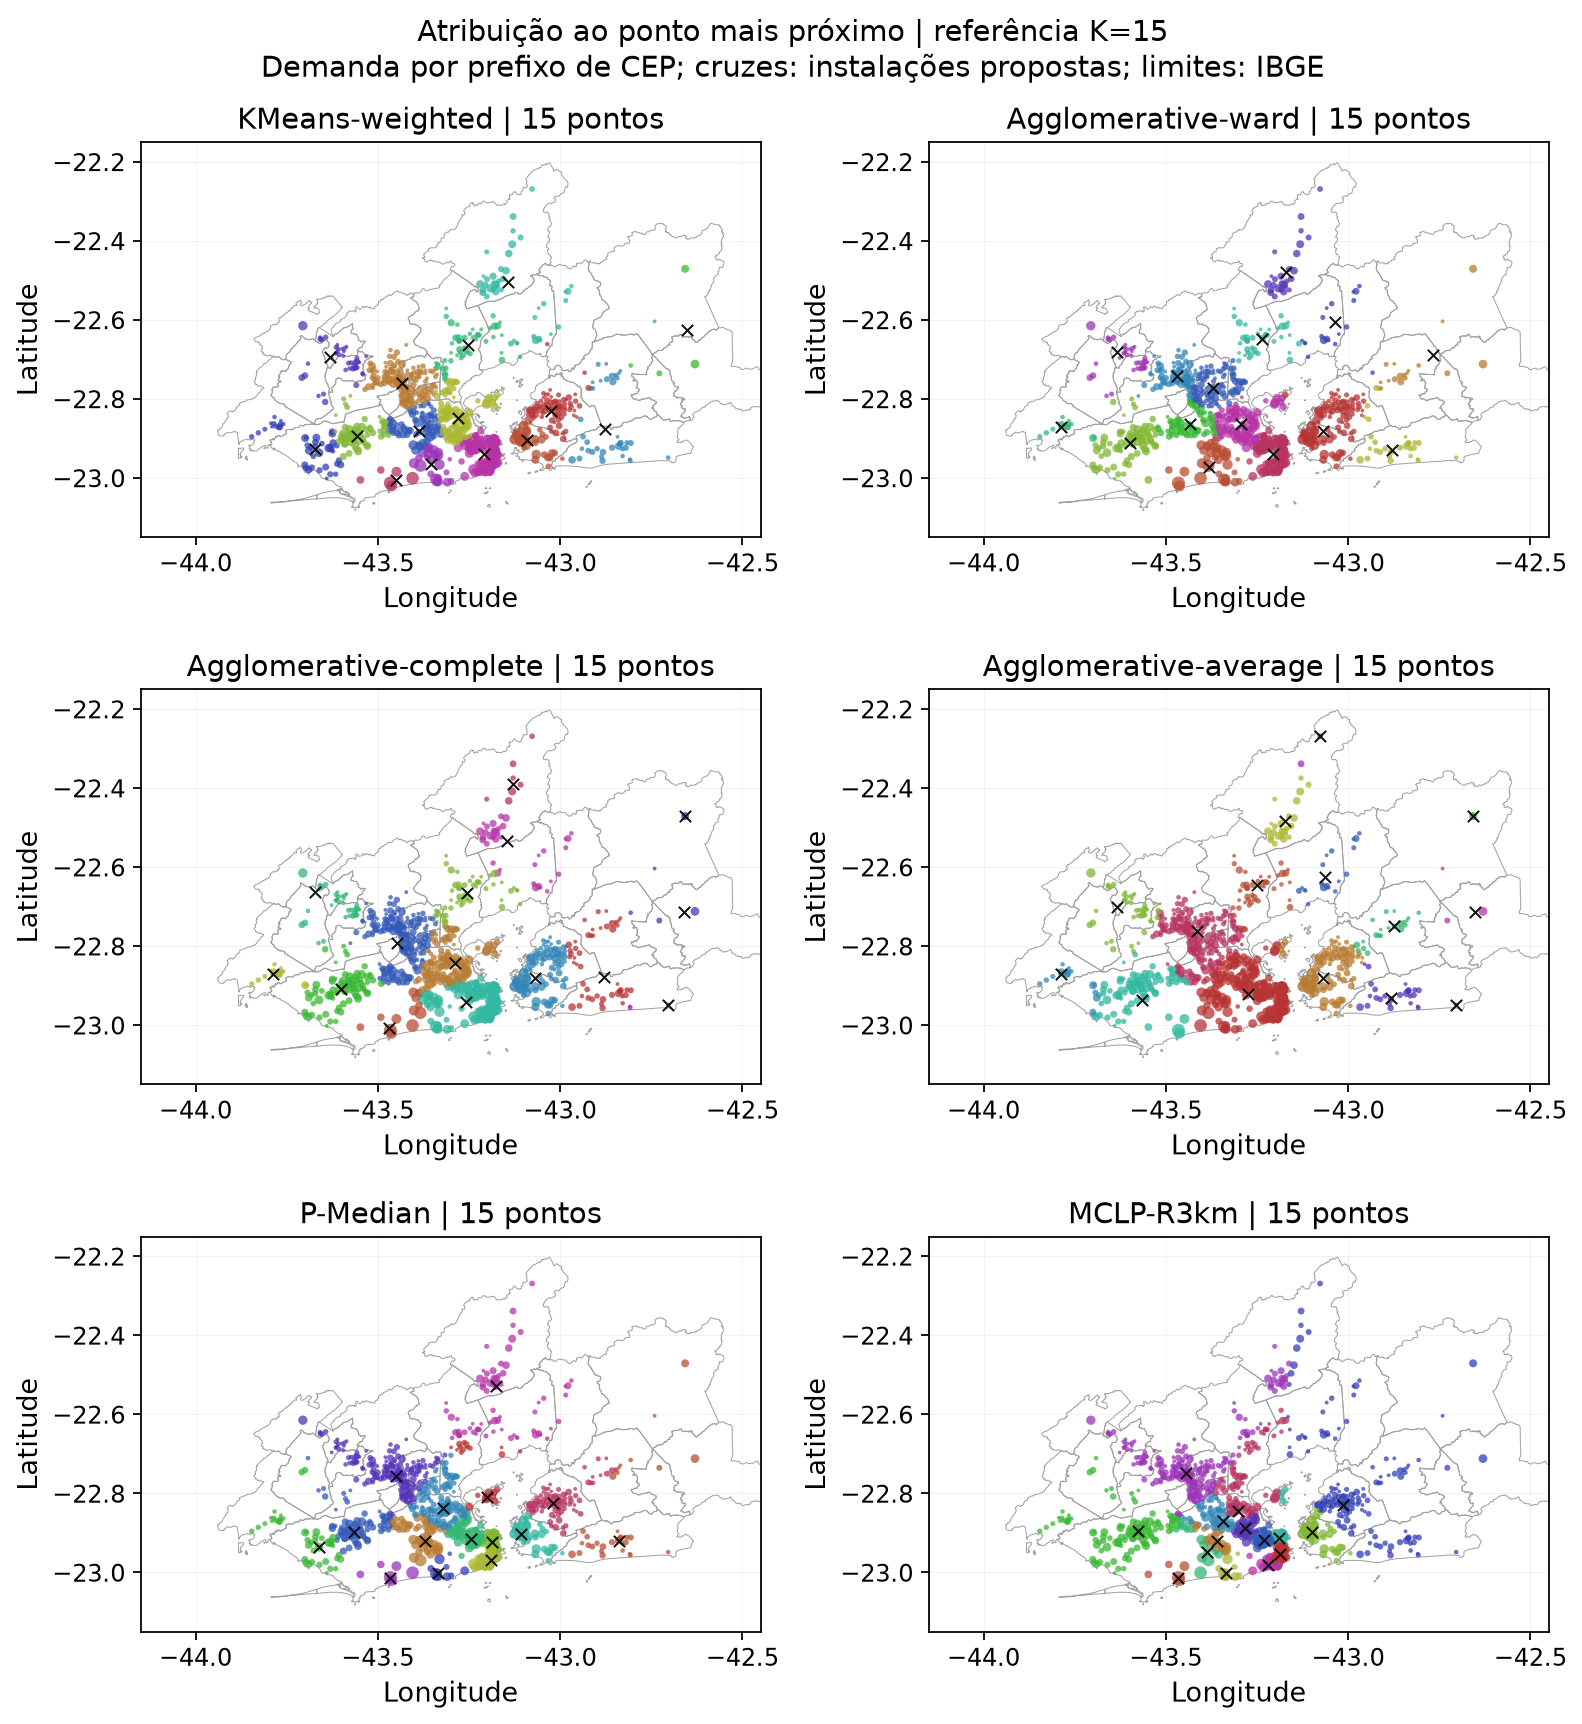
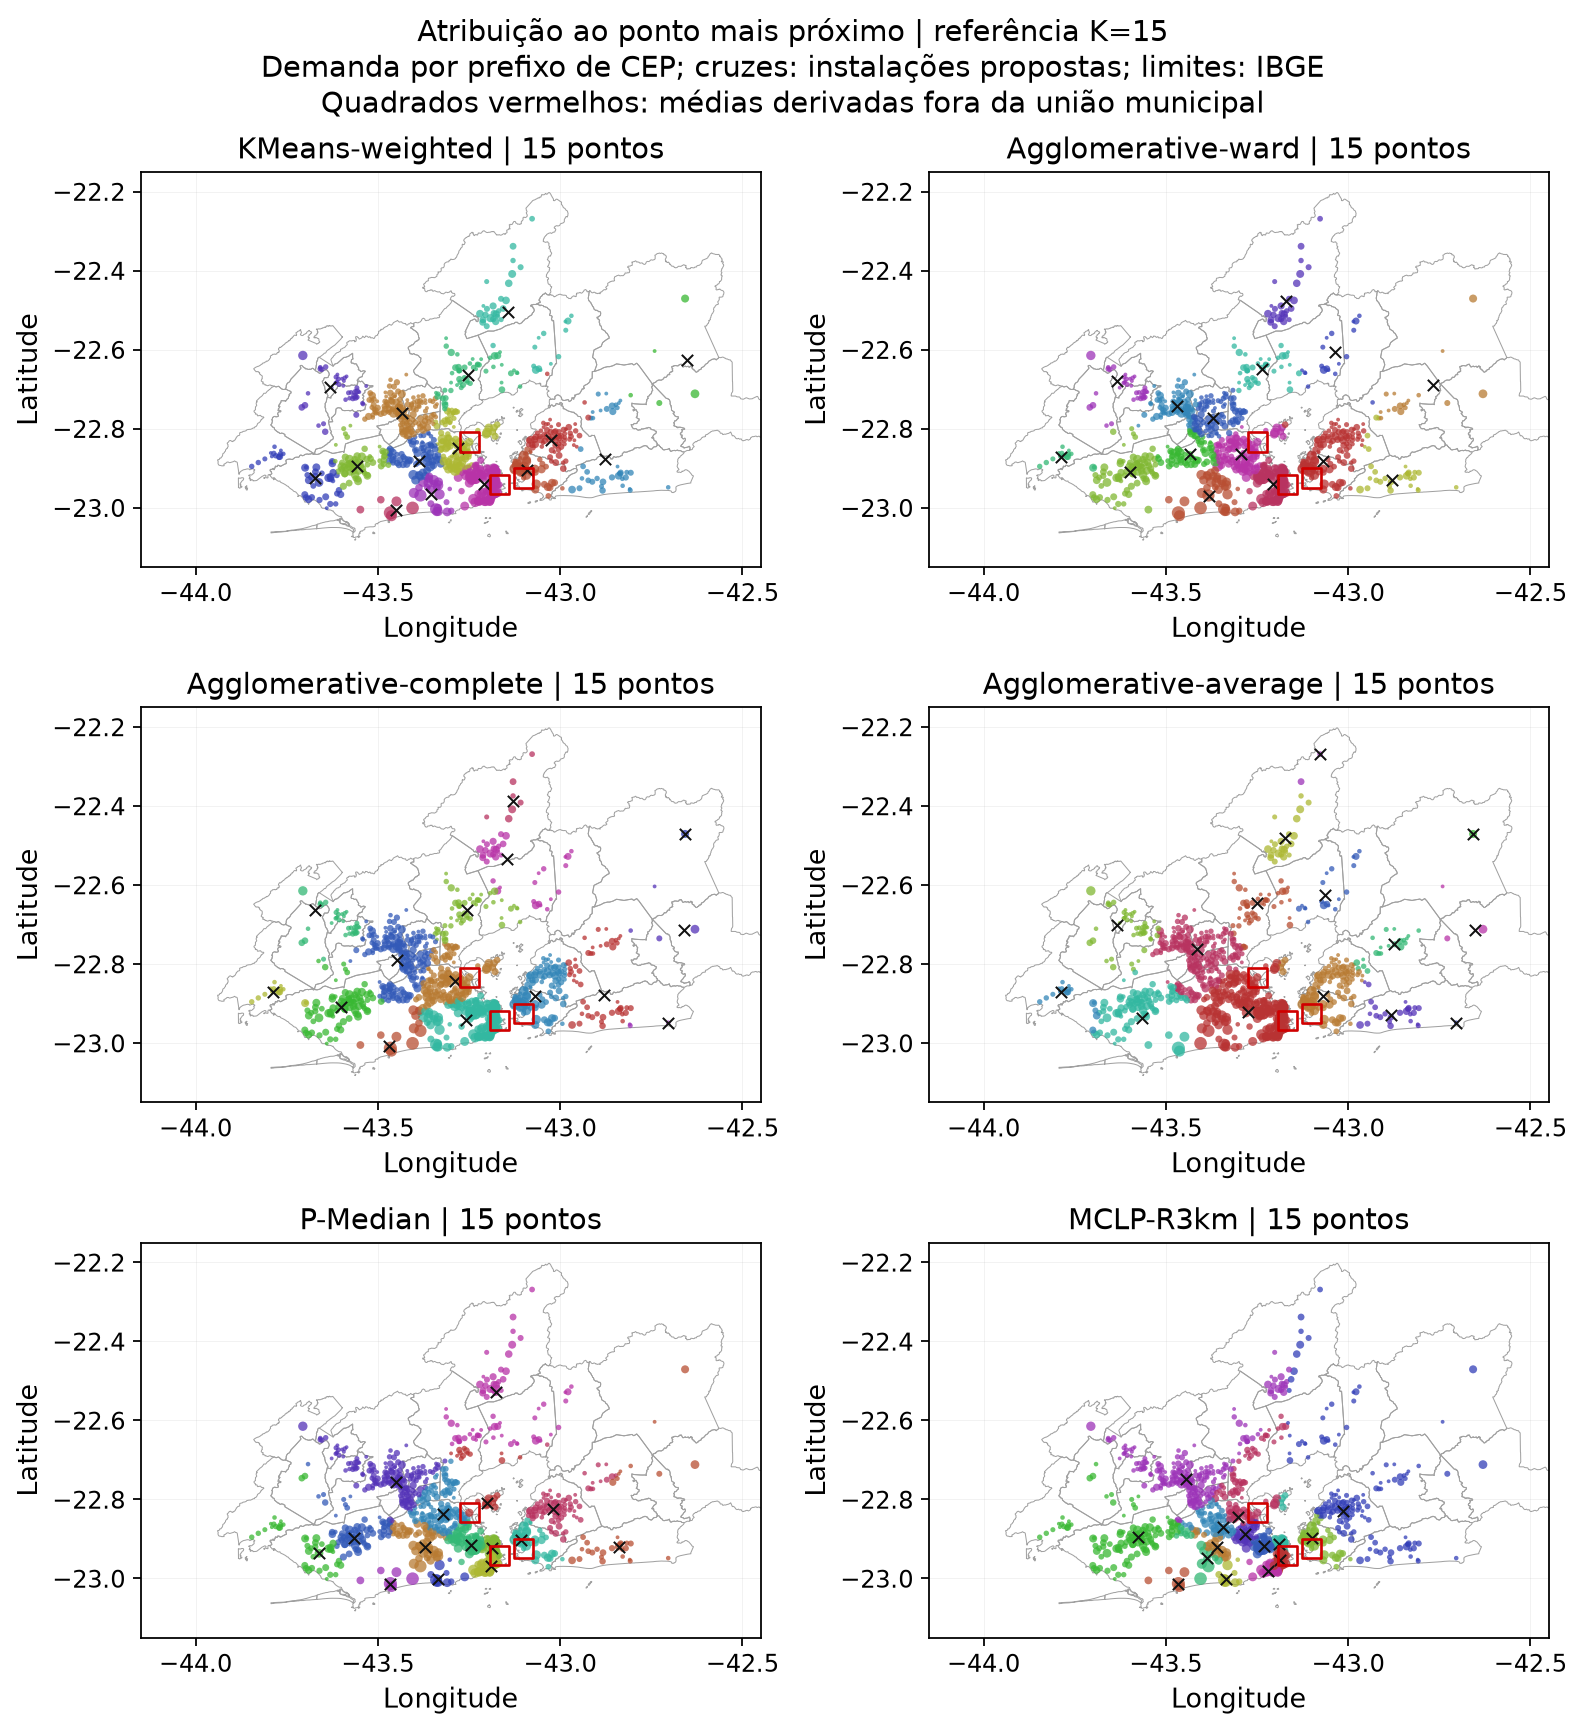
Preserva os hashes de auditoria e marca a incerteza das coordenadas derivadas

diff --git a/scripts/03_plot_figures.py b/scripts/03_plot_figures.py
@@ -17,6 +17,7 @@ DATA = REPO / "data"
 FIGS = REPO / "figures"
 CANDIDATES = 300
 BOUNDARIES = []
+MEAN_WARNINGS = np.empty((0,2))
 NAMES = ["KMeans-weighted", "Agglomerative-ward", "Agglomerative-complete",
          "Agglomerative-average", "P-Median", "MCLP-R3km"]
 COLORS = dict(zip(NAMES, ["#238b45", "#2171b5", "#756bb1", "#8c564b", "#cb181d", "#e6550d"]))
@@ -60,6 +61,9 @@ def map_panel(ax, df, labels, centers, title):
     geo_axis(ax, title)
     ax.scatter(df.lng, df.lat, s=np.sqrt(df.n_pedidos)*3,
                c=point_colors, alpha=.75, linewidths=0, zorder=2)
+    if len(MEAN_WARNINGS):
+        ax.scatter(MEAN_WARNINGS[:,1], MEAN_WARNINGS[:,0], s=75, marker="s",
+                   facecolors="none", edgecolors="#d00000", linewidths=1.2, zorder=4)
     ax.scatter(centers[:, 1], centers[:, 0], s=26, marker="x",
                c="#111111", linewidths=.9, zorder=3)
 
@@ -71,7 +75,8 @@ def figures_maps(df):
             nearest = d.argmin(axis=1)
             map_panel(ax, df, nearest, centers, f"{name} | {len(centers)} pontos")
         fig.suptitle(f"Atribuição ao ponto mais próximo | referência K={k}\n"
-                     "Demanda por prefixo de CEP; cruzes: instalações propostas; limites: IBGE",
+                     "Demanda por prefixo de CEP; cruzes: instalações propostas; limites: IBGE\n"
+                     "Quadrados vermelhos: médias derivadas fora da união municipal",
                      fontsize=13)
         save(fig, f"04_mapas_K{k}.png")
 
@@ -197,7 +202,7 @@ def assignment_diagnostic():
     pd.DataFrame(examples).to_csv(DATA / "native_assignment_examples.csv", index=False)
 
 def main():
-    global DATA, FIGS, CANDIDATES, BOUNDARIES
+    global DATA, FIGS, CANDIDATES, BOUNDARIES, MEAN_WARNINGS
     parser = argparse.ArgumentParser(description=__doc__)
     parser.add_argument("--data-dir", type=Path, default=DATA)
     parser.add_argument("--figures-dir", type=Path, default=FIGS)
@@ -213,6 +218,7 @@ def main():
         geom = feature["geometry"]
         polygons = [geom["coordinates"]] if geom["type"] == "Polygon" else geom["coordinates"]
         BOUNDARIES.extend(ring for poly in polygons for ring in poly)
+    MEAN_WARNINGS = pd.read_csv(DATA / "quality/aggregated_means_outside_region.csv")[["lat","lng"]].to_numpy()
     df = pd.read_csv(DATA / "demanda_por_cep.csv")
     res = pd.read_csv(DATA / "results_full.csv")
     for name, fn in [
